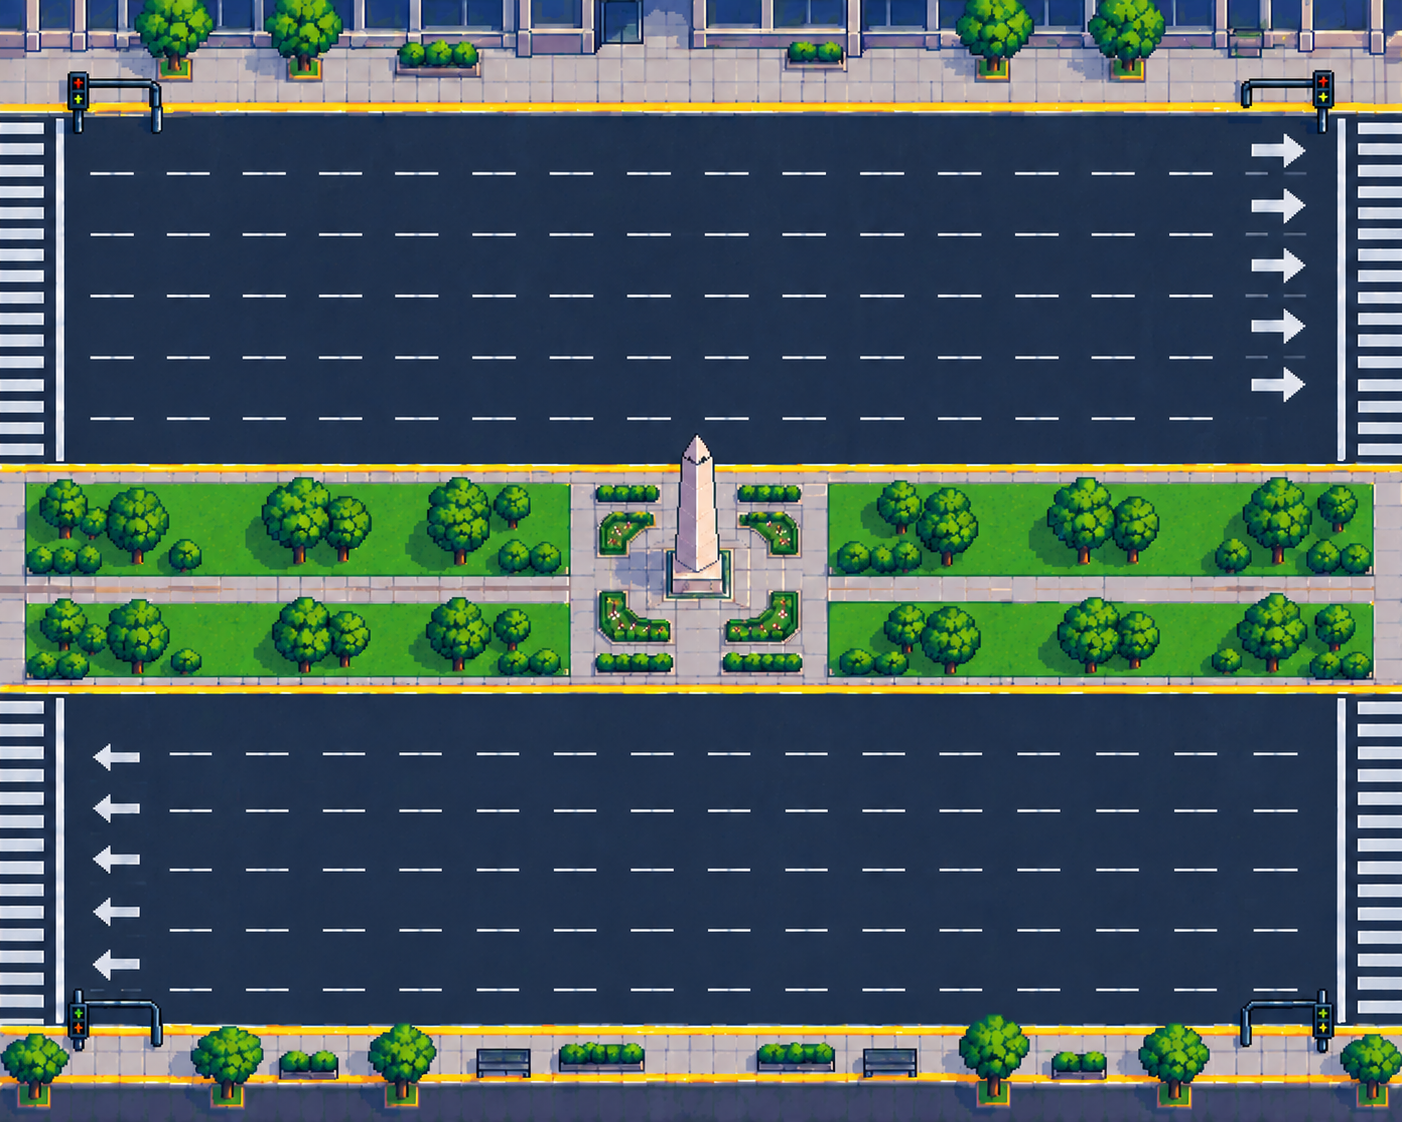
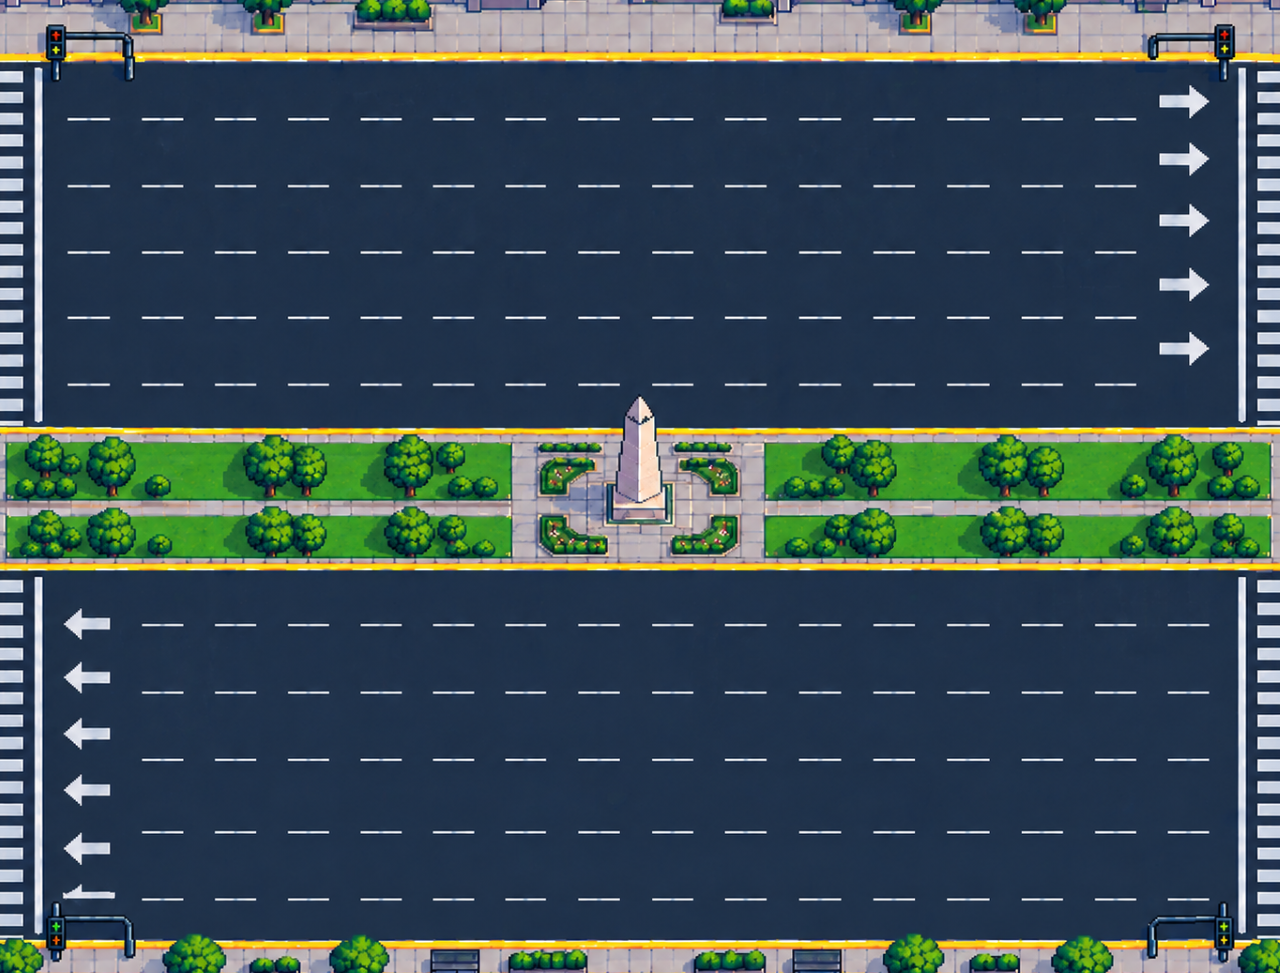
Agrego colectivos, falta corregir png

diff --git a/sketch1.js b/sketch1.js
@@ -11,6 +11,8 @@ let imgObelisco, imgVereda, imgAsfalto, imgMetrobus, imgJugador, imgAuto, imgCol
 let imgAuto1Derecha, imgAuto2Derecha, imgAuto1, imgAuto2;
 let imgTaxi1Derecha, imgTaxi2Derecha, imgTaxi1, imgTaxi2;
 let imgMoto, imgMotoIzquierda;
+let imgColectivo1, imgColectivo2, imgColectivo3;
+let imgColectivo1Derecha, imgColectivo2Derecha, imgColectivo3Derecha;
 let fuentePixelify;
 let imgEscenario;
 
@@ -54,16 +56,31 @@ function preload() {
   // Taxis - Derecha
   imgTaxi1Derecha = loadImage('img/taxi1_derecha.png');
   imgTaxi2Derecha = loadImage('img/taxi2_derecha.png');
+
   // Taxis - Izquierda
   imgTaxi1 = loadImage('img/taxi1.png');
   imgTaxi2 = loadImage('img/taxi2.png');
+
   //Moto
   imgMoto = loadImage('img/moto.png');                
   imgMotoIzquierda = loadImage('img/moto-izquierda.png'); 
+
+  // Colectivos - Izquierda
+  imgColectivo1 = loadImage('img/colectivo1.png');
+  imgColectivo2 = loadImage('img/colectivo2.png');
+  imgColectivo3 = loadImage('img/colectivo3.png');
+
+  // Colectivos - Derecha
+  imgColectivo1Derecha = loadImage('img/colectivo1-derecha.png');
+  imgColectivo2Derecha = loadImage('img/colectivo2-derecha.png');
+  imgColectivo3Derecha = loadImage('img/colectivo3-derecha.png');
+
   // Moneda Spritesheet
   imgMonedaSprite = loadImage('img/unpeso-spritesheet.png');
+
   // Carga de tipografía
   fuentePixelify = loadFont('tipografia/PixelifySans-Regular.ttf');
+
   // Carga de UI Inicio y Niveles
   imgFondoInicio   = loadImage('img/ui/fondo-inicio.png');
   imgTitulo        = loadImage('img/ui/titulo.png');
@@ -415,25 +432,35 @@ function reiniciarJuego() {
 }
 
 function dibujarHUD() {
-  fill(0);
-  noStroke();
-  textSize(20);
-  textAlign(LEFT, TOP);
+  textFont(fuentePixelify);
   
+  // Fondo gris semitransparente para dar contraste
+  fill(40, 40, 40, 200); 
+  noStroke();
+  rect(10, 10, width - 20, 45, 8);
+
+  // Configuración de texto
+  fill(255); // Tipografía en blanco
+  textSize(22);
+  textAlign(LEFT, CENTER);
+  
+  // Dibujar Vidas
   let textoVidas = "Vidas: " + jugador.vidas;
-  text(textoVidas, 20, 20);
+  text(textoVidas, 25, 32);
+  
   let tamCorazon = 24;
-  let corazonX = 20 + textWidth(textoVidas) + 8;
-  let corazonY = 18;
+  let corazonX = 25 + textWidth(textoVidas) + 8;
+  let corazonY = 20;
   image(imgCorazon, corazonX, corazonY, tamCorazon, tamCorazon);
 
+  // Dibujar Estrellas/Monedas
   let textoMonedas = "Estrellas: " + monedasRecolectadas + "/3";
-  text(textoMonedas, corazonX + tamCorazon + 20, 20);
+  text(textoMonedas, corazonX + tamCorazon + 30, 32);
 
+  // Dibujar Tiempo
   let tiempoActual = ((millis() - tiempoInicio) / 1000).toFixed(1);
-  textAlign(RIGHT, TOP);
-  fill(0);
-  text("Tiempo: " + tiempoActual + "s", width - 20, 20);
+  textAlign(RIGHT, CENTER);
+  text("Tiempo: " + tiempoActual + "s", width - 25, 32);
 }
 
 function dibujarPantallaInicio() {
@@ -590,6 +617,16 @@ class Vehiculo {
         image(imgMoto, this.x, y, this.ancho, alto);
       } else {
         image(imgMotoIzquierda, this.x, y, this.ancho, alto);
+      }
+    } else if (this.tipo === "colectivo") {
+      if (this.velocidad > 0) {
+        image(imgColectivo1Derecha, this.x, y, GRID_SIZE, alto);
+        image(imgColectivo2Derecha, this.x + GRID_SIZE, y, GRID_SIZE, alto);
+        image(imgColectivo3Derecha, this.x + GRID_SIZE * 2, y, GRID_SIZE, alto);
+      } else {
+        image(imgColectivo3, this.x, y, GRID_SIZE, alto);
+        image(imgColectivo2, this.x + GRID_SIZE, y, GRID_SIZE, alto);
+        image(imgColectivo1, this.x + GRID_SIZE * 2, y, GRID_SIZE, alto);
       }
     } else {
       stroke(0);
